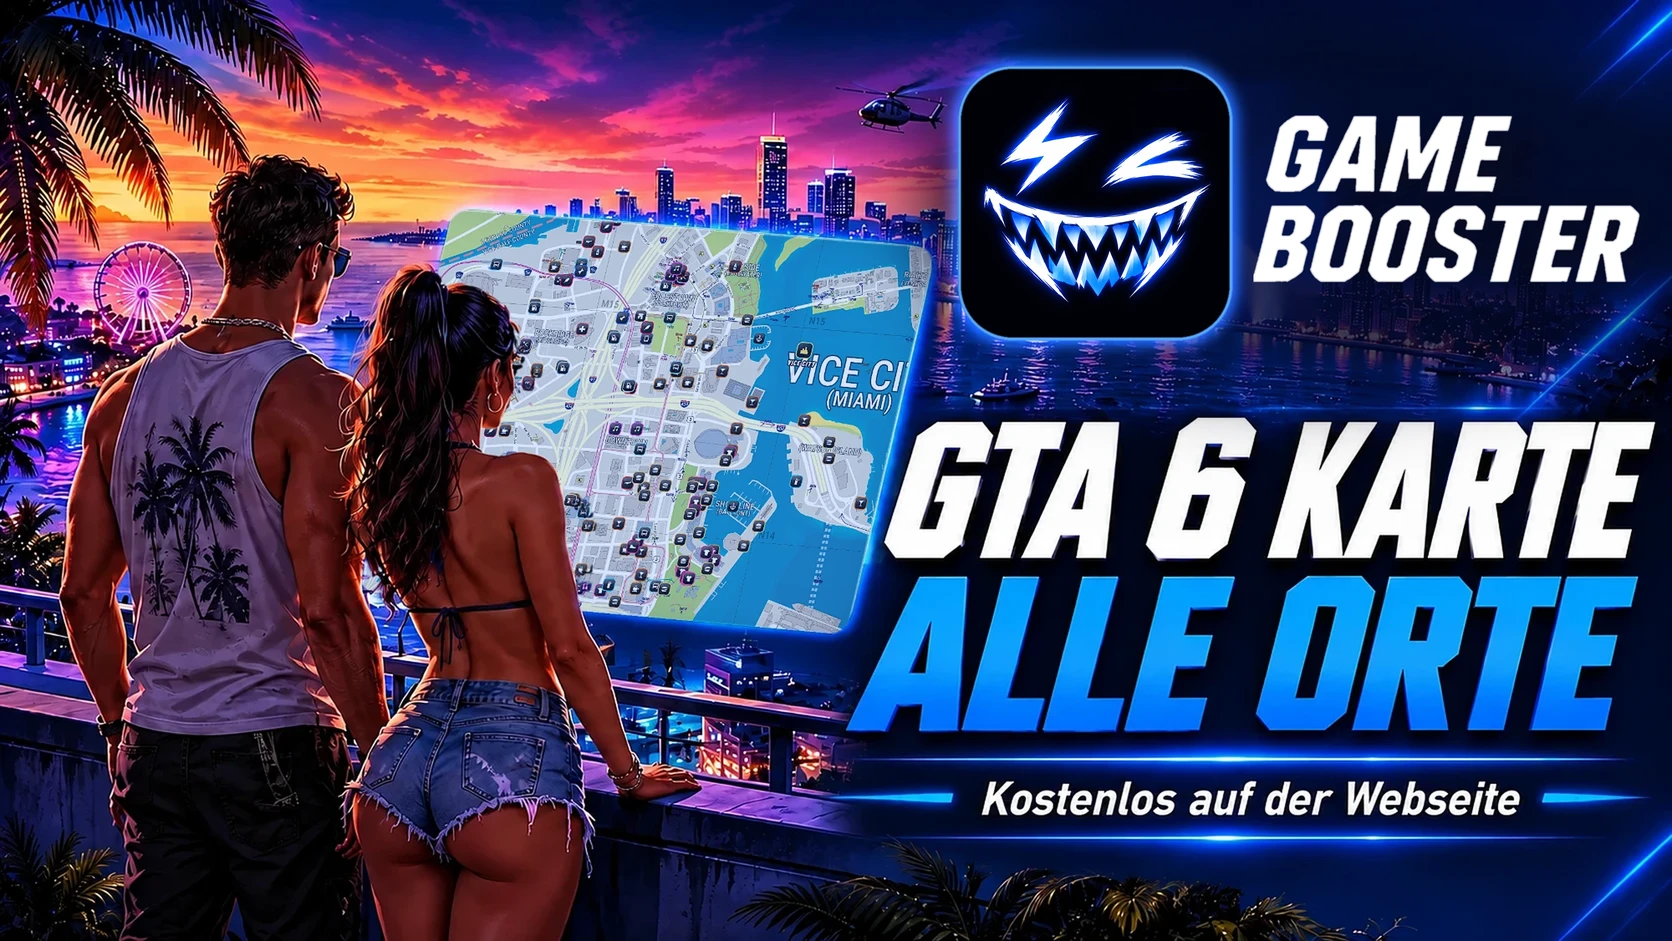
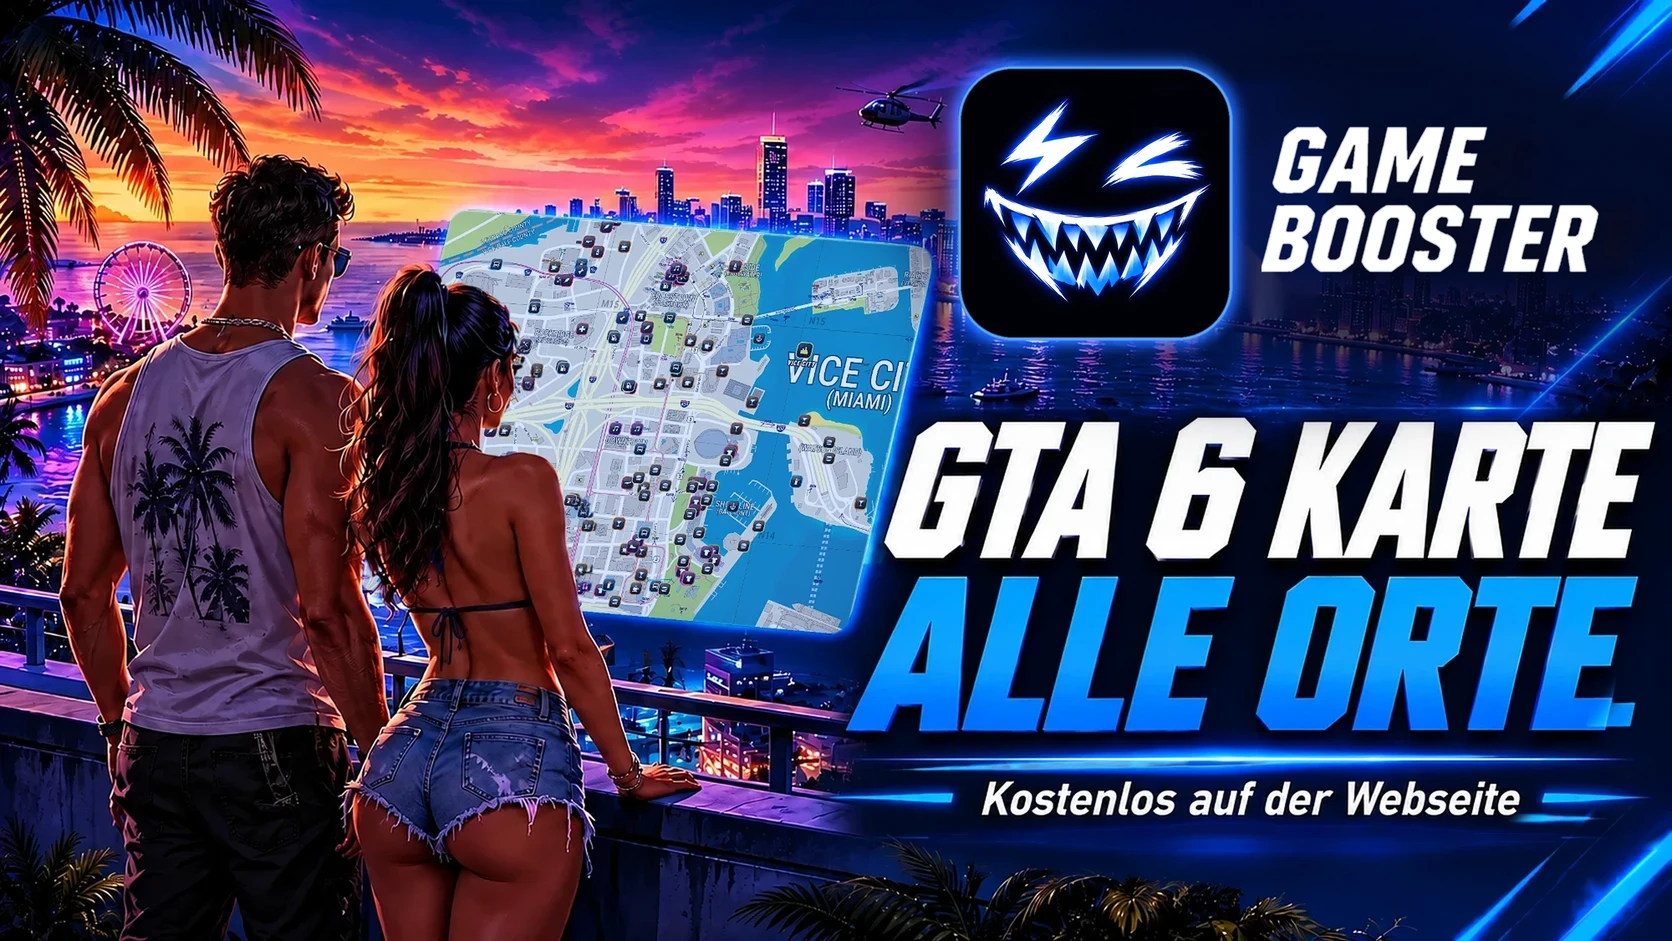
Webseite: GTA-6-Kachel Lichtlinien und Streifen wie DMZ, Schrift kleiner

diff --git a/js/index1.js b/js/index1.js
@@ -123,7 +123,7 @@ document.getElementById("shopGrid").innerHTML = SHOP.map(([a, t, s, p, on]) => I
 document.getElementById("shopGrid").insertAdjacentHTML("beforeend", `<div class="sp-w"><div style="position:relative"><a class="sp-cr2 wfb" href="/werbefrei" title="Zur Werbefrei-Seite"><img src="img/werbefrei.png" alt="" width="22" height="22" style="border-radius:5px;display:block"><span><small>Erweiterung</small><b>GB</b> WERBEFREI</span></a><a class="sc wf" href="/werbefrei"><img class="bgx" src="img/werbefrei-karte.webp?v=3" alt="Werbefrei" style="object-fit:cover" loading="lazy"><span class="st2" style="top:10px;bottom:auto">Neu</span></a></div>
   <div class="sp-t">Werbefrei <em class="wfe">Streams &amp; Videos ohne Werbung</em></div></div>`);
 // GTA 6 Karte (gratis, eigene Seite). Kartendaten-Hinweis GTABase bleibt immer drin
-document.getElementById("shopGrid").insertAdjacentHTML("beforeend", `<div class="sp-w"><div style="position:relative"><a class="sp-cr2" href="https://www.gtabase.com/de/gta-6/karte/" target="_blank" rel="noopener" title="Kartendaten von GTABase"><img src="img/gtabase-logo.webp" alt="" style="height:14px;width:auto;display:block"><span><small>Kartendaten</small><b>GTA</b> BASE</span></a><a class="sc" href="/gta6"><img class="bgx" src="img/gta6-karte.webp?v=9" alt="GTA 6 Karte" style="object-fit:cover" loading="lazy"><span class="st2" style="top:10px;bottom:auto">Gratis</span></a></div>
+document.getElementById("shopGrid").insertAdjacentHTML("beforeend", `<div class="sp-w"><div style="position:relative"><a class="sp-cr2" href="https://www.gtabase.com/de/gta-6/karte/" target="_blank" rel="noopener" title="Kartendaten von GTABase"><img src="img/gtabase-logo.webp" alt="" style="height:14px;width:auto;display:block"><span><small>Kartendaten</small><b>GTA</b> BASE</span></a><a class="sc" href="/gta6"><img class="bgx" src="img/gta6-karte.webp?v=10" alt="GTA 6 Karte" style="object-fit:cover" loading="lazy"><span class="st2" style="top:10px;bottom:auto">Gratis</span></a></div>
   <div class="sp-t">GTA 6 Karte <em>Alle Orte auf einer Karte</em></div></div>`);
 
 // PayPal direkt im Kauf-Fenster (Kunde bleibt auf der Seite).

diff --git a/index.html b/index.html
@@ -798,7 +798,7 @@ details{position:relative}details[open]{border-color:#2f4f8a}
 
 <script src="world.js?v=4"></script>
 <button type="button" id="toTop" aria-label="Nach oben"><svg viewBox="0 0 24 24" fill="none" stroke="currentColor" stroke-width="2.4" stroke-linecap="round" stroke-linejoin="round"><path d="M12 19V5M5.5 11.5 12 5l6.5 6.5"/></svg></button>
-<script src="js/index1.js?v=75"></script>
+<script src="js/index1.js?v=76"></script>
 <script src="js/index2.js?v=1"></script>
 <a class="petab" href="https://www.provenexpert.com/game-booster-vpn/zam6/" target="_blank" rel="noopener" aria-label="Game Booster VPN auf ProvenExpert bewerten"><b class="pst">★<br>★<br>★<br>★<br>★</b><span>Bewerte uns</span><small>auf ProvenExpert</small></a>
 <script src="js/features.js?v=9"></script>
